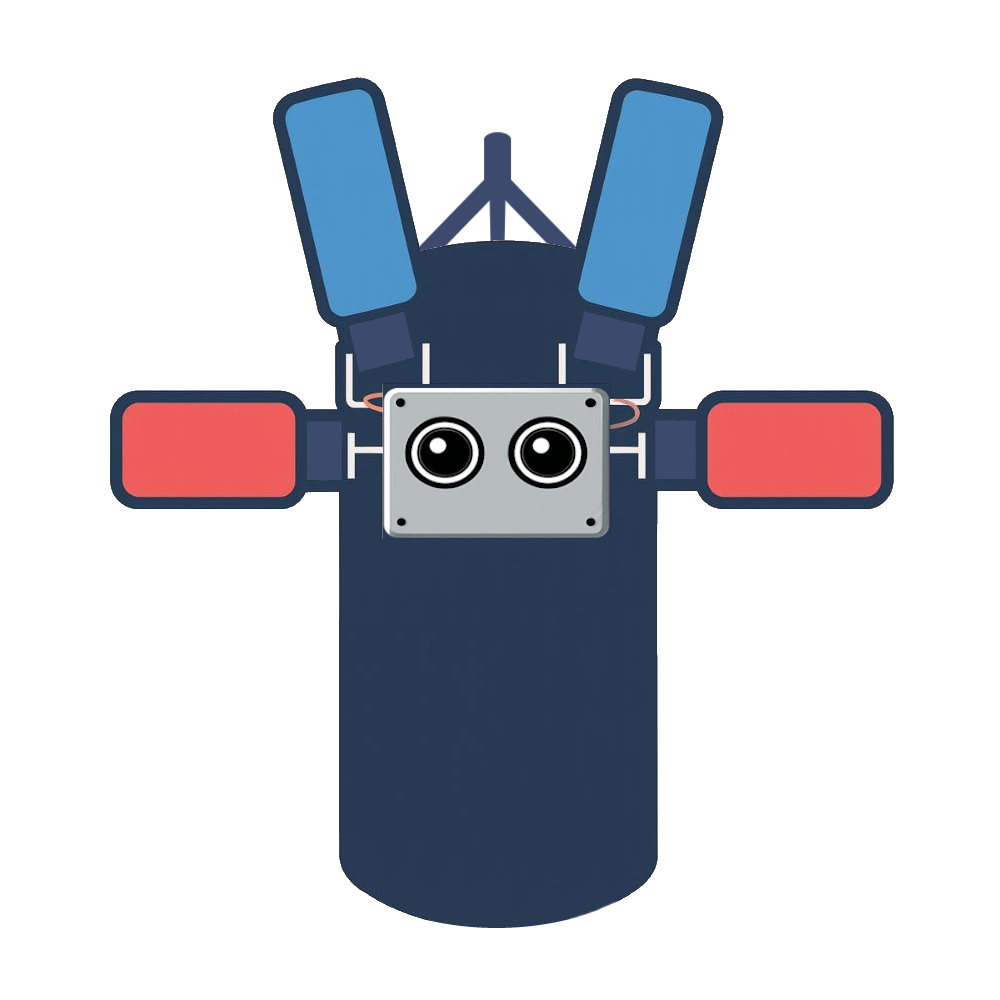
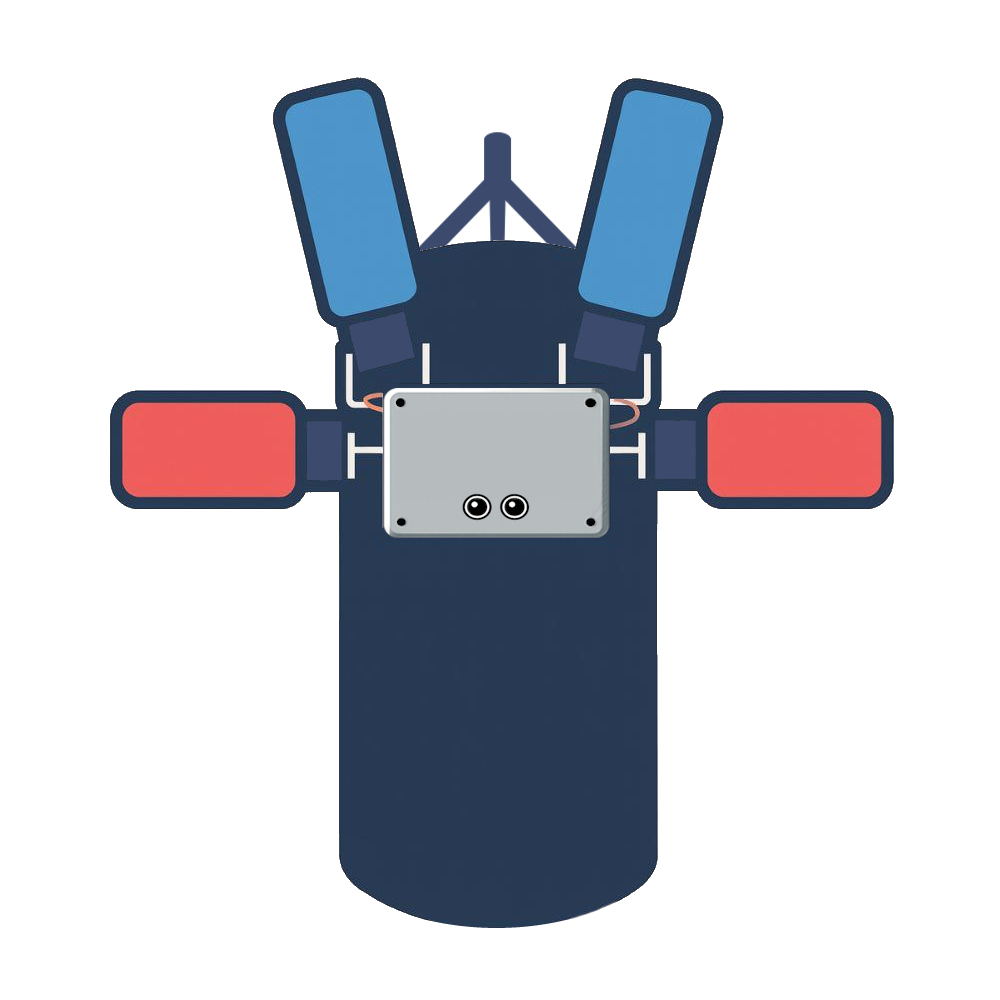
update

Changed region(s): [[0.403, 0.403, 0.589, 0.527]]

diff --git a/README.md b/README.md
@@ -1,17 +1,17 @@
-# Robot Sparring
+# Crab Sparring
 
-Robot Sparring is a robot that helps you train in boxing; He has 4 arms and makes various combinations of strokes that you have to try to dodge with slip, duck etc.
+Crab Sparring is a robot that helps you train in boxing; He has 4 arms and makes various combinations of strokes that you have to try to dodge with slip, duck etc.
 
 https://www.hackster.io/maxdam75/robot-sparring-79726e
 
 ### Logo
 <p>
-<img src="./schema/logo-robot-sparring.jpg" width=400>
-<img src="./schema/robotsparring.jpg" width=400>
+<img src="./schema/crab_sparring_robot.jpg" width=400>
+<img src="./schema/robotsparringpro.jpg" width=400>
 </p>
 
 ### Schema
-<img src="./schema/schema3.jpg" width=800>
+<img src="./schema/schema4.jpg" width=800>
 
 
 
